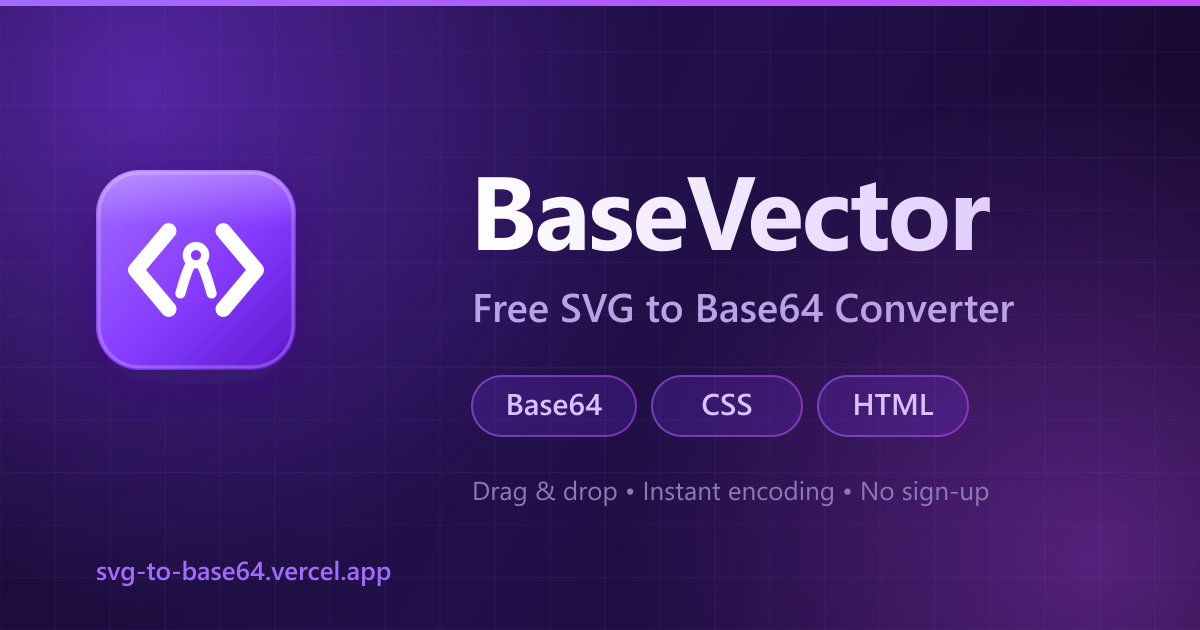
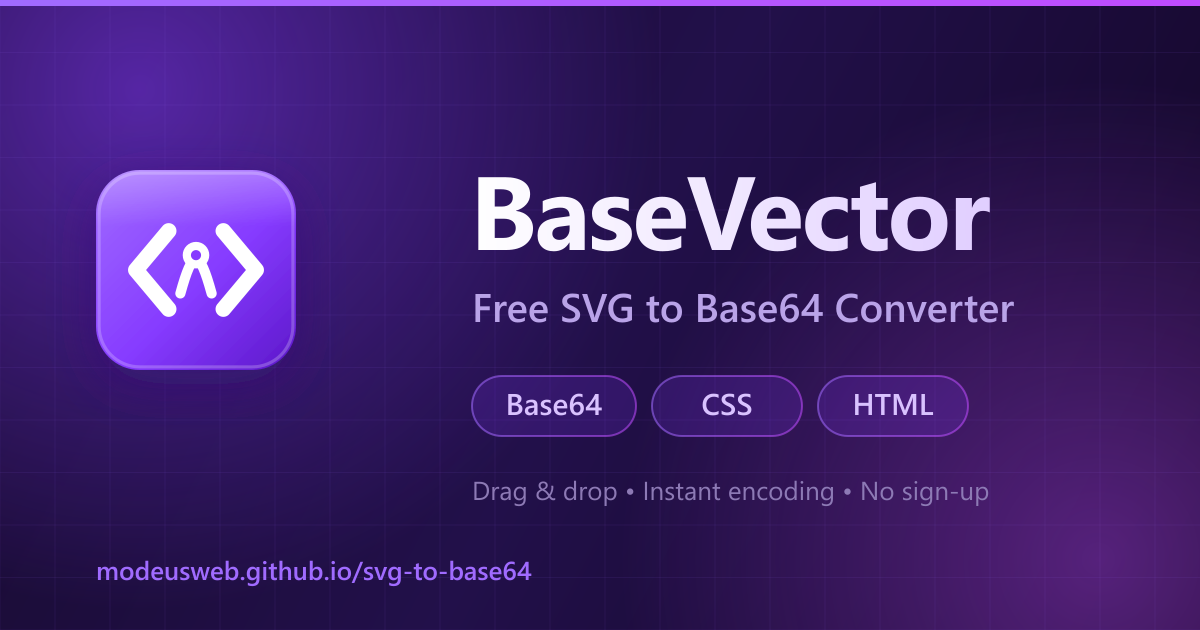
chore: drop yandex-verification meta, point og-image to github.io url

Changed region(s): [[0.0617, 0.8746, 0.4625, 0.9349]]

diff --git a/app/layout.tsx b/app/layout.tsx
@@ -120,7 +120,6 @@ export default function RootLayout({
     <html lang="en">
       <head>
         <meta name="google-site-verification" content="0D59jG7JMUj7sXOpK7E1--vZ0ptpdRe0TBSvBKaUGwM" />
-        <meta name="yandex-verification" content="56721fa25dcb1707" />
         <script
           type="application/ld+json"
           dangerouslySetInnerHTML={{
